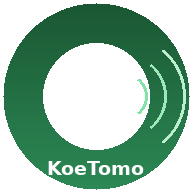
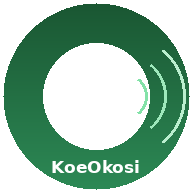
Rename to KoeOkosi

Changed region(s): [[0.25, 0.8125, 0.75, 0.9375]]

diff --git a/index.html b/index.html
@@ -6,10 +6,10 @@
 <meta name="theme-color" content="#1a5632">
 <meta name="apple-mobile-web-app-capable" content="yes">
 <meta name="apple-mobile-web-app-status-bar-style" content="black-translucent">
-<meta name="apple-mobile-web-app-title" content="KoeTomo">
+<meta name="apple-mobile-web-app-title" content="KoeOkosi">
 <link rel="manifest" href="manifest.json">
 <link rel="apple-touch-icon" href="icon-192.png">
-<title>KoeTomo - 声とも</title>
+<title>KoeOkosi - 声おこし</title>
 <link rel="preconnect" href="https://fonts.googleapis.com">
 <link href="https://fonts.googleapis.com/css2?family=Noto+Sans+JP:wght@400;700;900&family=Zen+Maru+Gothic:wght@400;700&display=swap" rel="stylesheet">
 <style>
@@ -828,8 +828,8 @@ body::before {
   <div class="logo">
     <div class="logo-icon">👂</div>
     <div>
-      <div class="logo-text">KoeTomo</div>
-      <div class="logo-sub" data-i18n="subtitle">声をつなぐ、心をつなぐ</div>
+      <div class="logo-text">KoeOkosi</div>
+      <div class="logo-sub" data-i18n="subtitle">声を文字に、想いをつなぐ</div>
     </div>
   </div>
   <button class="lang-toggle" id="langToggle" onclick="toggleLanguage()">EN</button>
@@ -947,7 +947,7 @@ body::before {
 // ===== i18n =====
 const i18n = {
   ja: {
-    subtitle: '声をつなぐ、心をつなぐ',
+    subtitle: '声を文字に、想いをつなぐ',
     statusReady: 'マイクの準備ができています',
     statusListening: '聞きとり中...',
     statusStopped: '停止しました',
@@ -979,7 +979,7 @@ const i18n = {
     confirmDelete: 'この会話を削除しますか？',
   },
   en: {
-    subtitle: 'Connecting voices, connecting hearts',
+    subtitle: 'Voice to text, heart to heart',
     statusReady: 'Microphone ready',
     statusListening: 'Listening...',
     statusStopped: 'Stopped',
